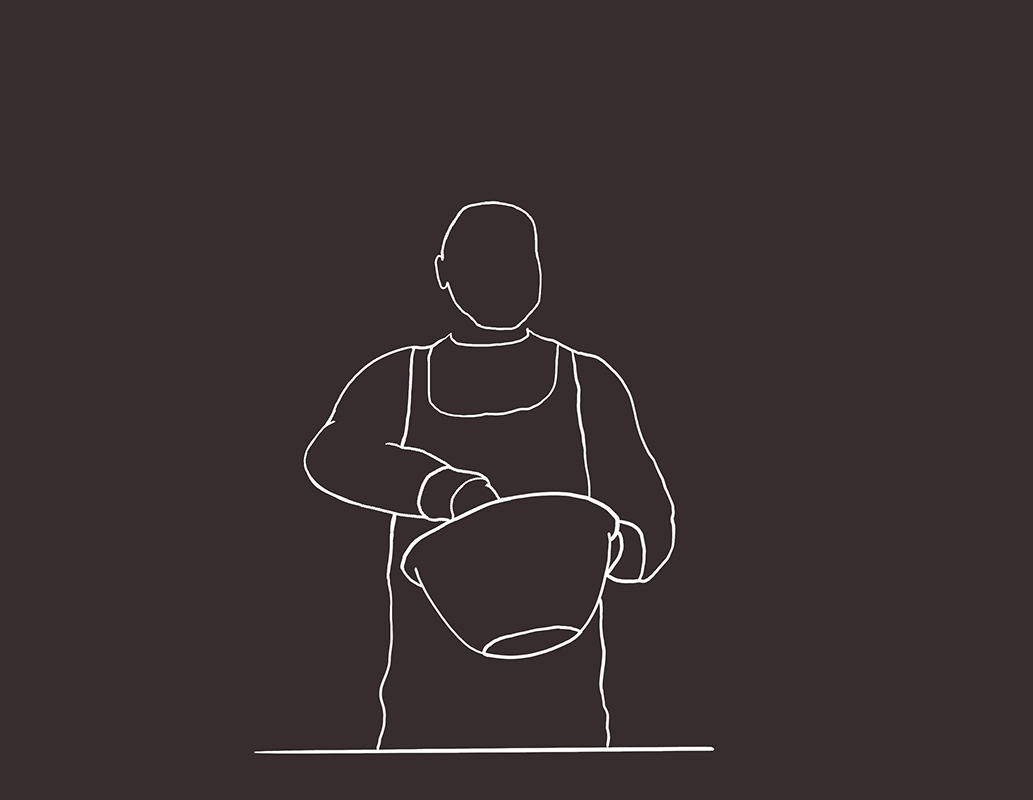
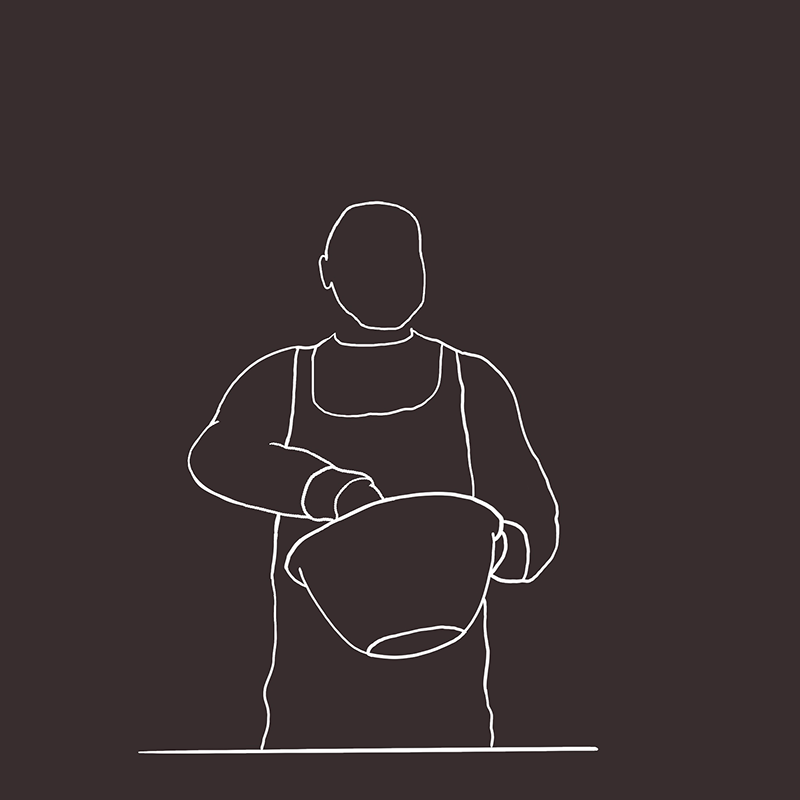
Altered assets and positioning to better fit vertical displays

diff --git a/src/Canvas.js b/src/Canvas.js
@@ -31,8 +31,8 @@ export default class Canvas {
         const { innerWidth, innerHeight } = window;
     
         // Calculate scale based on the aspect ratio
-        const aspectRatio = this.width / this.height;
-        let newWidth = innerWidth * 0.9; // 90% of window width
+        const aspectRatio = 1;
+        let newWidth = innerWidth; // 90% of window width
         let newHeight = newWidth / aspectRatio;
     
         // Ensure it fits within the window height
@@ -50,6 +50,11 @@ export default class Canvas {
         this.height = newHeight;
     
         console.log('Resized canvas to:', newWidth, newHeight);
+
+        // Resize the game container to the correct width to move the UI elements
+        const container = document.getElementById("ui");
+        console.log(container)
+        container.style.width = `${this.width * 0.8}px`;
     }
 
     drawImage(image, x, y, width = 0, height = 0) {

diff --git a/src/Experience.js b/src/Experience.js
@@ -29,11 +29,6 @@ export default class Experience {
 
         this.input = new Input(RECIPES.SCRAMBLED.pattern, this.chef);
 
-        const nextStateElement = document.getElementById("nextState");
-        if (nextStateElement) {
-            nextStateElement.onclick = () => this.chef.nextState();
-        }
-
         this.score = 0;
         this.scoreElement = document.getElementById("score");
 

diff --git a/main.js b/main.js
@@ -3,10 +3,10 @@ import './style.css'
 import Experience from './src/Experience.js'
 
 document.querySelector('#app').innerHTML = `
-  <div class="container">
+  <div id="container">
     <canvas class="game"></canvas>
-    <div class="ui">
-      <h1 id="nextState">Next State</h1>
+    <div id="ui">
+      <h1 id="recipes">R</h1>
       <h1 id="score">0</h1>
     </div>
   </div>

diff --git a/style.css b/style.css
@@ -13,7 +13,7 @@ canvas {
   image-rendering: crisp-edges;
 }
 
-.container {
+#container {
   display: flex;
   flex-flow: column nowrap;
   justify-content: center;
@@ -24,12 +24,10 @@ canvas {
   width: 100vw;
 }
 
-.ui {
+#ui {
   display: flex;
   flex-flow: row nowrap;
   justify-content: right;
   align-items: center;
   gap: 1rem;
-
-  width: 90vw;
 }
